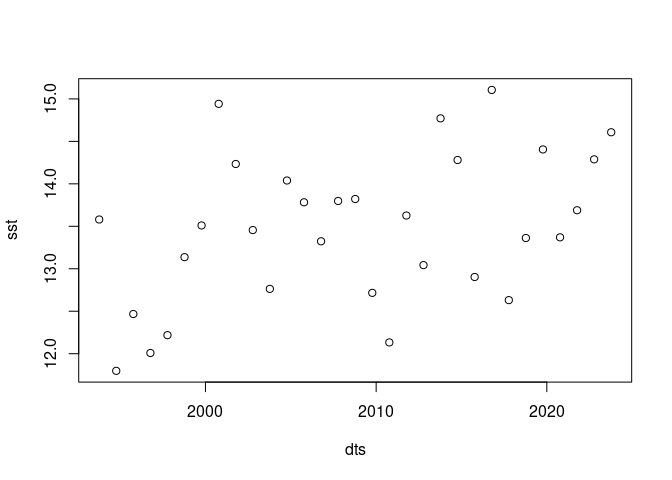
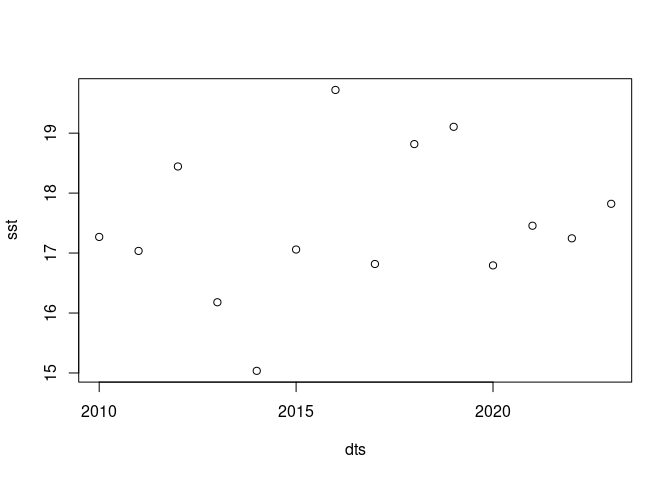
update, default to BRAN2023

diff --git a/README.md b/README.md
@@ -42,10 +42,11 @@ read_bluelink(varname = "ocean_w")
 #> resolution  : 0.1, 0.1  (x, y)
 #> extent      : 0, 360, -75, 75  (xmin, xmax, ymin, ymax)
 #> coord. ref. : +proj=longlat +datum=WGS84 +no_defs 
-#> source      : ocean_w_1998_01.nc:w 
+#> source      : ocean_w_2010_01.nc:w 
 #> varname     : w (dia-surface velocity T-points) 
-#> name        : w_sw_ocean=5_Time=6940.5 
-#> unit        :                    m/sec
+#> name        : w_Time=11323.5_sw_ocean=5 
+#> unit        :                     m/sec 
+#> time        : 2010-01-01 12:00:00 UTC
 ```
 
 Other variables sometimes have diferent ranges in times.
@@ -57,10 +58,11 @@ read_bluelink(varname = "ocean_temp")
 #> resolution  : 0.1, 0.1  (x, y)
 #> extent      : 0, 360, -75, 75  (xmin, xmax, ymin, ymax)
 #> coord. ref. : +proj=longlat +datum=WGS84 +no_defs 
-#> source      : ocean_temp_1993_01.nc:temp 
+#> source      : ocean_temp_2010_01.nc:temp 
 #> varname     : temp (Potential temperature) 
-#> name        : temp_st_ocean=2.5_Time=5114.5 
-#> unit        :                     degrees C
+#> name        : temp_Time=11323.5_st_ocean=2.5 
+#> unit        :                      degrees C 
+#> time        : 2010-01-01 12:00:00 UTC
 ```
 
 We can give a particular date.
@@ -74,8 +76,9 @@ read_bluelink("2023-12-31", varname = "ocean_temp")
 #> coord. ref. : +proj=longlat +datum=WGS84 +no_defs 
 #> source      : ocean_temp_2023_12.nc:temp 
 #> varname     : temp (Potential temperature) 
-#> name        : temp_st_ocean=373.1943359375_Time=16405.5 
-#> unit        :                                 degrees C
+#> name        : temp_Time=16435.5_st_ocean=2.5 
+#> unit        :                      degrees C 
+#> time        : 2023-12-31 12:00:00 UTC
 ```
 
 Generally, take the year you are in and you should be able to get days
@@ -86,11 +89,13 @@ from last year.
 Every day on the first of September
 
 ``` r
-dts <- seq(as.Date("1993-10-10"), as.Date("2023-10-10"), by = "1 year")
+dts <- seq(as.Date("2010-01-01"), as.Date("2023-10-10"), by = "1 year")
 
 options(parallelly.fork.enable = TRUE, future.rng.onMisuse = "ignore")
 library(furrr); plan(multicore)
 #> Loading required package: future
+#> Warning in getCGroupsRoot(controller = controller): Mixed CGroups versions are
+#> not supported: 'cgroup2', 'cgroup'
 
 sst <- future_map_dbl(dts, \(.x) terra::extract(read_bluelink(.x, varname = "ocean_temp"), cbind(150, -42))[[1]])
 plan(sequential)

diff --git a/NEWS.md b/NEWS.md
@@ -1,5 +1,7 @@
 # bluelink (development version)
 
+* Changed default to BRAN2023 (so only starts in 2010). Backwards usage is possible but not finished. 
+
 * Depth and time metadata now present, use `terra::time()` and `terra::depth()`. 
 
 * Now importing tidync to get netcdf metadata on windows. 
